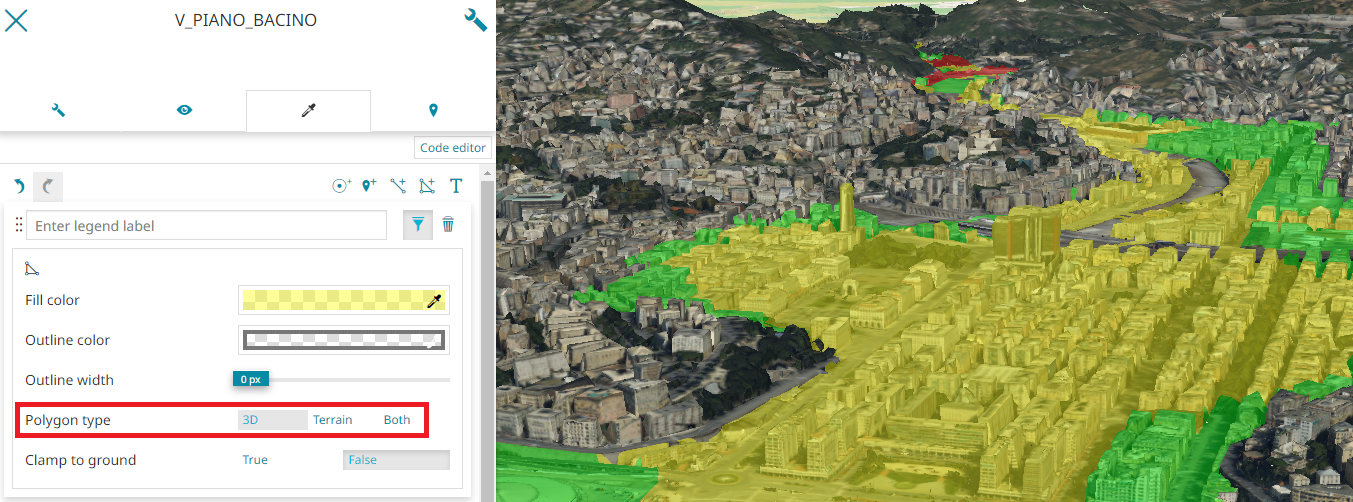
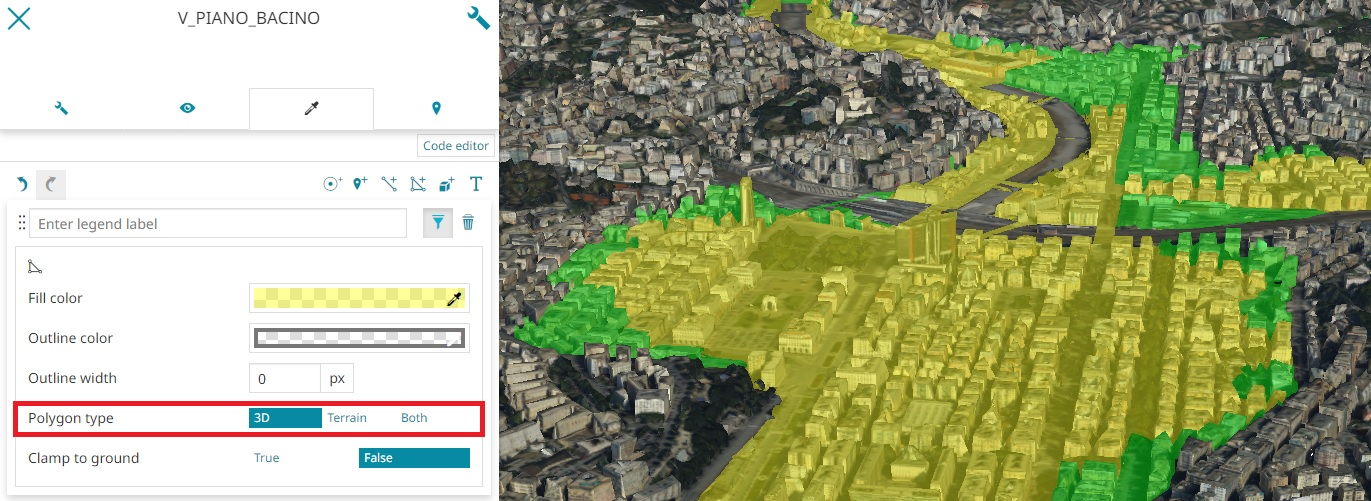
add_8805

diff --git a/docs/user-guide/layer-settings.md b/docs/user-guide/layer-settings.md
@@ -285,6 +285,11 @@ The [MapStore](https://mapstore.geosolutionsgroup.com/mapstore/#/) **Visual Styl
 
 In [3D Navigation](side-bar.md#3d-navigation), [MapStore](https://mapstore.geosolutionsgroup.com/mapstore/#/) allows to customize the style of the *Vector layer* with the same characteristics of the [Visual Style Editor](layer-settings.md#visual-editor-style) as described in the previous chapter.
 
+ In addition, the style of the *Vector layer* can also be customized with the **3D model** rule.
+From the *Visual Style Editor*, by clicking on <img src="../img/button/3D-model-button.jpg" class="ms-docbutton"/> button, the 3D model panel opens allows the style editor to add a 3D model (by specifying its *URL*) and customize the 3D model `Scale`, `Rotation` and `Color`. Take a look at the following example.
+
+<img src="../img/layer-settings/3d-model-style-ex.gif" class="ms-docimage">
+
 !!!Warning
     For the Vector layer, the *Cesium Style Editor* have some limitations:
 
@@ -297,6 +302,14 @@ Furthermore, [MapStore](https://mapstore.geosolutionsgroup.com/mapstore/#/) adds
 * **Bring to front** to bring the Mark or the Icon in front of the **3d Tiles** layer (This option is available for Icon and Mark symbolizers).
 
 <img src="../img/layer-settings/bring-to-front.jpg" class="ms-docimage">
+
+* **Height reference from ground** to choose the height reference of the symbol from the ground between `None`, `Relative` or `Clamp`. The editor can also customize the **Height** of the symbols by choosing between the *Attribute Value*, selecting a value from the attribute table,  and a *Constant Value*.     (This option is available for Mark, Icon, 3D Model and Text symbolizers)
+
+<img src="../img/layer-settings/height-reference.jpg" class="ms-docimage">
+
+* **Leader line** to add a line to show the relation between the point and a position on the terrain. The editor can choose the **Width** of the line and the **Color** through the *color picker*. (This option is available for Mark, Icon, 3D Model and Text symbolizers)
+
+<img src="../img/layer-settings/leader-line.jpg" class="ms-docimage">
 
 * **Polygon type** to choose whether the classification, drape effect, should affect `3D`, `Terrain` or `Both`. (This option is available for Fill symbolizers)
 
